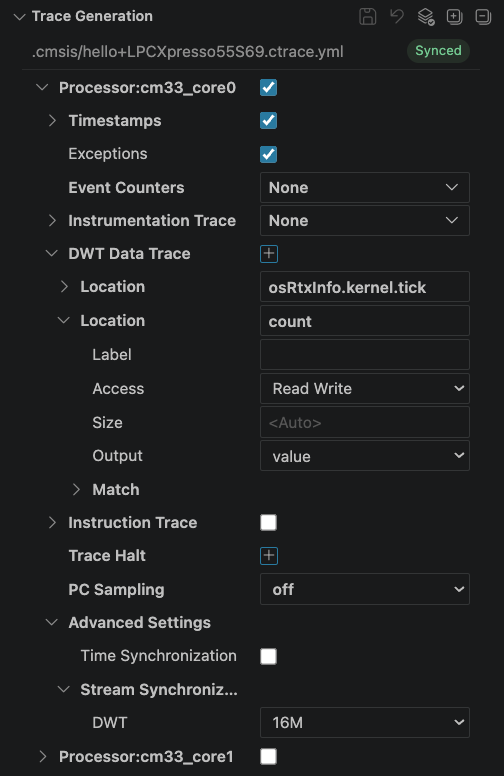
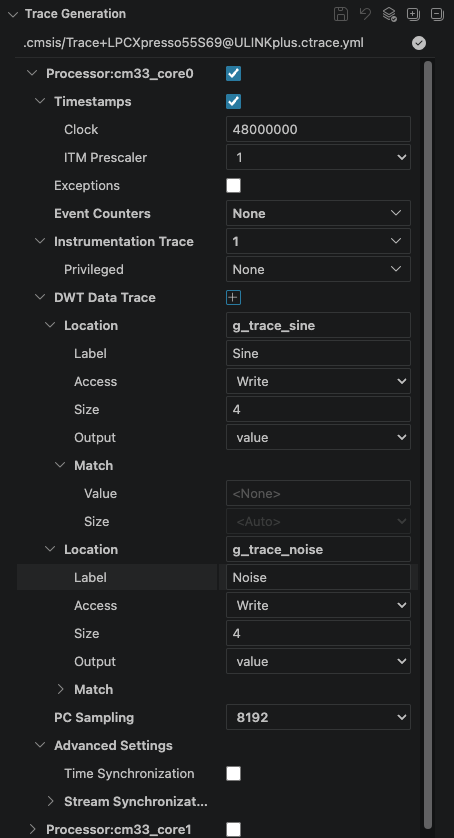
Simplified docs for pre-release

diff --git a/README.md b/README.md
@@ -400,175 +400,9 @@ The Core Peripherals view shows information about the following components if im
 
 CMSIS Debugger supports capturing trace information from Cortex-M processors using Serial Wire Output (SWO). You can configure which trace information the processor generates, capture the resulting trace without stopping program execution, and inspect the decoded trace data directly in Visual Studio Code.
 
-Trace configuration consists of two parts:
-
-1. `csolution.yml` configures the trace transport and capture method, including the SWO input and output clocks.
-2. The **Trace Generation** view configures the trace sources in the processor, such as exception trace, instrumentation trace, DWT data trace, event counters, and PC sampling. The trace source configuration is stored separately in a target-specific `.ctrace.yml` file in the `.cmsis` directory.
-
-This separation allows the trace transport, such as SWO, to be configured independently from the processor trace sources that produce the data.
-
-##### Configure SWO trace
-
-Before configuring individual trace sources, enable SWO trace for the target.
-
-1. Select the debug adapter
-
-- Open **Manage Solution** and select the debug adapter to use with the target.
-- **Save** the solution configuration before continuing.
-
-For example, you can use an onboard ST-Link debug adapter with pyOCD.
-
-2. Enable SWO
-
-From **Manage Solution**, select **Edit csolution.yml** and add a `trace` section to the debugger configuration.
-
-For example:
-
-```yaml
-debugger:
-  name: ST-Link@pyOCD
-  clock: 4000000
-  protocol: swd
-  trace:
-    - swo-uart:
-      mode: file
-      input-clock: 84000000
-      output-clock: 1500000
-```
-
-|  Key  | Description |
-|-------|-------------|
-| `swo-uart` | Selects SWO as the trace output. |
-| `mode: file` | Captures the trace to a file for subsequent analysis |
-| `input-clock` | Specifies the clock used by the target trace hardware. It must correspond to the actual processor or trace clock used by the application. |
-| `output-clock` | Specifies the SWO communication rate used to transfer trace data to the debug adapter. |
-
-In the example above, the trace input clock is 84 MHz and the SWO output clock is 1.5 MHz.
-
-> &#x26A0; **Important:**
->
-> The appropriate clock values depend on the target and application configuration. An incorrect `input-clock` can prevent SWO trace from being decoded correctly. Verify the processor clock used by your application.
-
-Save `csolution.yml`. The **Trace Generation** view now shows the trace capabilities of the selected processor.
-
-##### Configure trace sources
-
-Open the **Trace And Live View** and scroll down until the **Trace Generation**.
-
 ![Trace Generation](./images/trace-generation.png)
 
-Enable the processor as a trace source and select the information that you want to capture. The available options depend on the trace capabilities of the processor.
-
-**Timestamps**
-
-Enable **Timestamps** and configure the **ITM Prescaler** to control how frequently timestamp information is generated.
-
-Timestamps contribute to the cycle information in the decoded trace. They are not normally displayed as individual trace records.
-
-**todo** **Clock** setting?
-
-**Exception Trace**
-
-Enable **Exceptions** to record exception activity.
-
-In the decoded trace, **index** identifies the exception number and **value** identifies the exception event.
-
-**Event Counters**
-
-Enable **Event Counters** to include supported processor events in the trace.
-
-The available counters depend on the processor.
-
-**Instrumentation Trace**
-
-Enable **Instrumentation Trace** to capture information generated through ITM stimulus channels.
-
-- Select the required channels and configure their properties.
-- **Privileged** sets group access rights. Ports that are used by an operating system can be protected from being accessed through the user-code. When unchecked, accessing ports in User Mode is not allowed. Ports are always accessible when the device is in **Privileged Mode**.
-
-**DWT Data Trace**
-
-Use **DWT Data Trace** to monitor accesses to a variable or memory location without stopping program execution:
-
-- Specify the **Location** to monitor
-- Optionally, add a **Label**
-- Select the required **Access** type
-- Select the **Output** type
-- Select **Match** **todo**
-
-Depending on the processor, additional information such as the program counter can be included in the generated trace.
-
-For example, configuring a variable for write access generates a trace record whenever the processor writes to that variable. The captured value is included in the decoded trace.
-
-A data trace point can also be made sensitive to a particular value. Value-dependent configurations can require additional DWT hardware resources and should therefore only be used when required.
-
-> &#128221; **Note:**
->
-> DWT data trace and data access breakpoints use the same underlying hardware resources. Enabling data trace can reduce the number of data access breakpoints available to the debugger.
-
-**Instruction Trace**
-
-**todo**
-
-**Trace Halt**
-
-**todo**
-
-**PC Sampling**
-
-Enable **PC Sampling** to periodically record the program counter.
-
-The available sampling configuration depends on the processor.
-
-**Advanced Settings**
-
-**Time Synchronization**
-
-**Stream Synchronization**
-
-##### Validate the trace configuration
-
-CMSIS Debugger automatically validates changes made in the **Trace Generation** view.
-
-An invalid or unsupported setting is indicated by an error icon. Errors are propagated through the configuration hierarchy so that an error remains visible even when the affected section is collapsed.
-
-Hover over the error indicator to display additional information.
-
-Some validation requires information from the application image. If validation reports that the application image does not exist, build the solution and allow the trace configuration to be validated again.
-
-Validation also detects configurations that are not supported by the target trace hardware. For example, a processor might support PC information for some DWT access types but not for others.
-
-##### Save the trace configuration
-
-After configuring the required trace sources, press the save button ![Save trace button](./images/save-trace.png).
-
-CMSIS Debugger stores the trace source configuration in `.cmsis/<target>.ctrace.yml`. The filename corresponds to the
-active target.
-
-Use ![Revert](./images/trace-revert.png) to discard unsaved changes and restore the previously saved trace
-configuration.
-
-You normally do not need to edit the `.ctrace.yml` file directly. Configure the required trace sources using the
-**Trace Generation** view.
-
-##### Capture SWO trace
-
-After configuring and saving the trace settings:
-
-1. Build the application.
-2. Start a debug session.
-3. Run the application.
-4. Stop execution after the period that you want to analyze.
-5. Open the generated trace CSV file.
-
-With `mode: file`, the SWO trace stream is captured and the decoded trace is made available as a CSV file.
-
-> &#x26A0; **Important:**
->
-> Starting a new trace capture overwrites the previous CSV trace file. Copy or rename the file before starting another
-> capture if you need to preserve the previous trace.
-
-#### View captured trace data
+##### View captured trace data
 
 In the debug bar, use the ![Show captured trace](./images/trace-show-captured.png) button to open the generated `.csv`
 trace file in Visual Studio Code.
@@ -576,61 +410,7 @@ trace file in Visual Studio Code.
 The trace viewer displays the decoded trace records in a table and supports filtering, sorting, keyboard and mouse
 navigation, selecting records, and copying trace data.
 
-Use the column controls to sort the trace. Successive selections cycle through ascending, descending, and the original
-trace order.
-
-Use filtering to locate specific records or values within the captured trace.
-
-The meaning of **index** and **Value** depends on the trace source that generated the record.
-
-For DWT data trace, **value** contains the value captured when the configured memory location was accessed.
-
-For exception trace, **index** identifies the exception number and **value** identifies the corresponding exception event.
-
-Timestamp information is incorporated into the cycle information rather than being displayed as separate timestamp records.
-
-**Locate the source of a trace record**
-
-**todo** needs validation/does not work on macOS
-
-You can correlate a captured trace record with the configuration that generated it.
-
-Hold **Ctrl** and select a trace record in the CSV viewer. CMSIS Debugger highlights the corresponding configuration in the **Trace Generation** view.
-
-For example, selecting a DWT data trace record identifies the DWT data trace point that generated the record.
-
-The numeric **index** information in the captured trace is used to associate records with their configured trace sources.
-
-##### Change trace settings during debugging
-
-You can modify trace source settings while a debug session is active.
-
-Changes that have not yet been saved are indicated in the **Trace Generation** view. The view also indicates unsaved changes when the affected configuration section is collapsed.
-
-Press ![Save button](./images/save-trace.png) to store the updated configuration.
-
-The new configuration is used when execution is started again. Starting the new capture discards the previously captured trace data.
-
-## Handle trace overflow
-
-An **overflow** record indicates that trace information was lost because the generated trace exceeded the available trace bandwidth.
-
-When overflow occurs, consider reducing the amount of enabled trace information or adjusting the trace configuration to reduce bandwidth consumption. For example, changing timestamp or ITM-related settings can reduce the amount of generated trace data.
-
-> &#128221; **Note:**
->
-> A trace capture file containing overflow records is incomplete. Take this into account when analyzing the captured
-> data.
-
-**Consider hardware resource limitations**
-
-Cortex-M trace functionality uses hardware resources that vary between processors. The number and capabilities of DWT comparators, trace sources, and supported trace combinations therefore depend on the selected target.
-
-In particular, DWT data trace shares comparator resources with data access breakpoints. Advanced data trace configurations, such as value-dependent trace points, can consume additional hardware resources.
-
-CMSIS Debugger validates the configuration and reports combinations that are not supported by the selected processor.
-
-When configuring several trace sources, enable only the information required for the current investigation. This conserves both target trace resources and available SWO bandwidth.
+![Trace Data View](./images/trace-data-view-csv.png)
 
 ### PERIPHERALS
 
